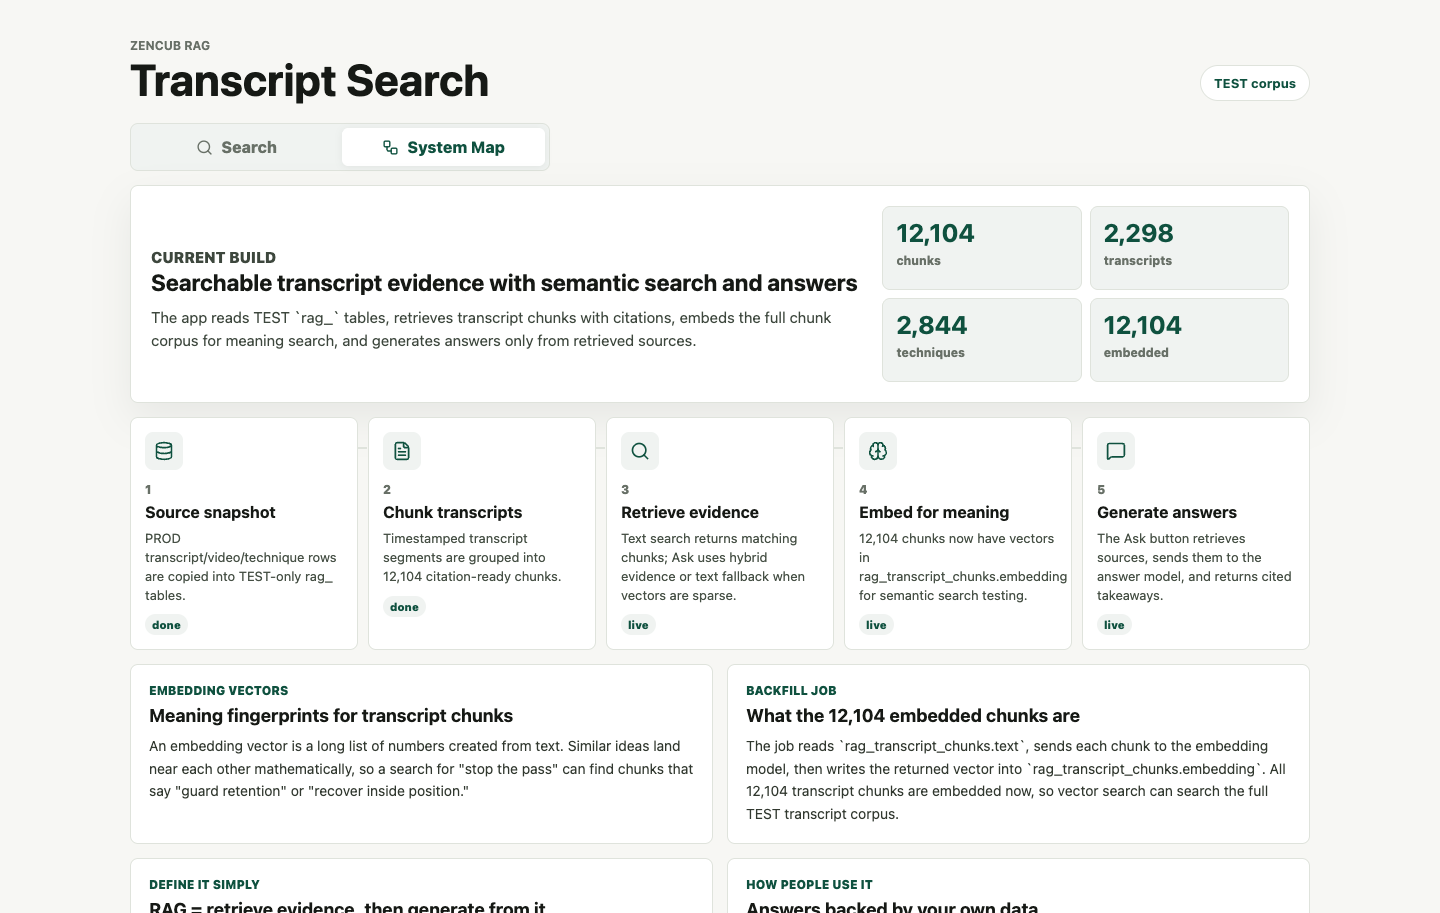
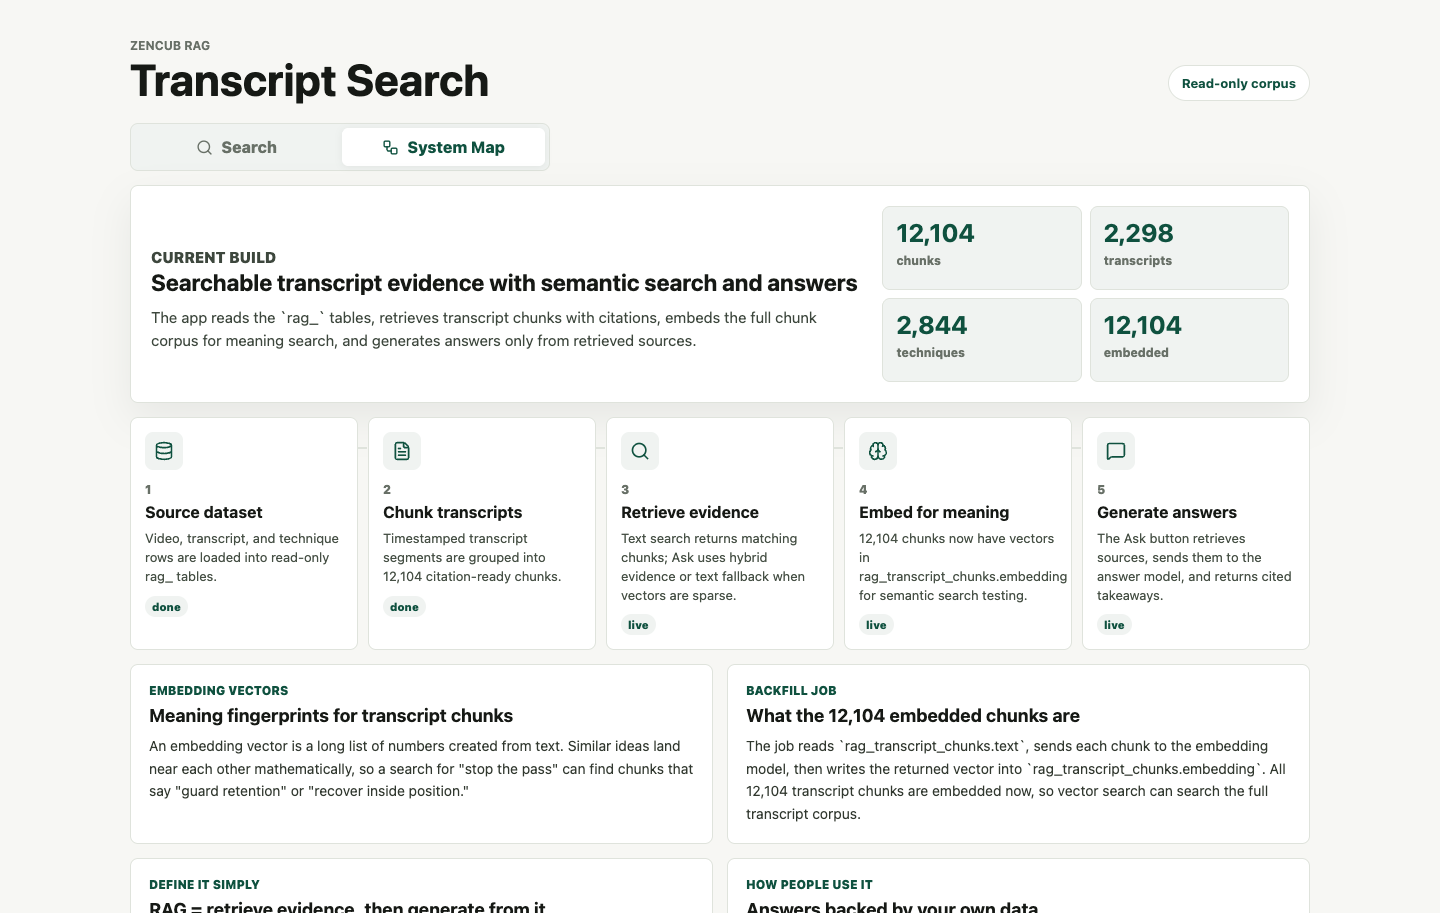
Generalize framing for public release; add social-preview image
- Remove internal/PROD/other-repo framing across docs, UI, and migration
  (reframe as a standalone RAG app over a BJJ transcript dataset)
- Drop the project ref that had leaked into the migration header
- UI: "TEST corpus" -> "Read-only corpus"; "Source snapshot / PROD" ->
  "Source dataset"; genericize System Map and overview copy
- Re-capture Search + System Map screenshots to match generalized UI
- Add docs/media/social-preview.png (1280x640) for GitHub social preview

diff --git a/src/components/SearchClient.tsx b/src/components/SearchClient.tsx
@@ -27,8 +27,8 @@ type Tab = "search" | "map";
 const pipeline = [
   {
     icon: Database,
-    title: "Source snapshot",
-    detail: "PROD transcript/video/technique rows are copied into TEST-only rag_ tables.",
+    title: "Source dataset",
+    detail: "Video, transcript, and technique rows are loaded into read-only rag_ tables.",
     status: "done",
   },
   {
@@ -406,7 +406,7 @@ export function SearchClient() {
               <p className="section-kicker">Current build</p>
               <h2>Searchable transcript evidence with semantic search and answers</h2>
               <p>
-                The app reads TEST `rag_` tables, retrieves transcript chunks with citations, embeds the full chunk corpus for meaning search, and generates answers only from retrieved sources.
+                The app reads the `rag_` tables, retrieves transcript chunks with citations, embeds the full chunk corpus for meaning search, and generates answers only from retrieved sources.
               </p>
             </div>
             <div className="metric-grid" aria-label="Corpus summary">
@@ -448,7 +448,7 @@ export function SearchClient() {
               <p className="section-kicker">Backfill job</p>
               <h3>What the 12,104 embedded chunks are</h3>
               <p className="plain-copy">
-                The job reads `rag_transcript_chunks.text`, sends each chunk to the embedding model, then writes the returned vector into `rag_transcript_chunks.embedding`. All 12,104 transcript chunks are embedded now, so vector search can search the full TEST transcript corpus.
+                The job reads `rag_transcript_chunks.text`, sends each chunk to the embedding model, then writes the returned vector into `rag_transcript_chunks.embedding`. All 12,104 transcript chunks are embedded now, so vector search can search the full transcript corpus.
               </p>
             </div>
           </section>
@@ -516,7 +516,7 @@ export function SearchClient() {
               <ol>
                 <li>The browser sends the query to `/api/rag/search`.</li>
                 <li>The API route uses the Supabase service role on the server.</li>
-                <li>Supabase runs `search_rag_transcript_chunks` against TEST chunks.</li>
+                <li>Supabase runs `search_rag_transcript_chunks` against the corpus chunks.</li>
                 <li>The UI renders snippets with title, timestamp, source URL, and rank.</li>
               </ol>
             </div>
@@ -555,8 +555,8 @@ export function SearchClient() {
 
           <section className="table-map">
             <div className="table-map-header">
-              <p className="section-kicker">TEST data map</p>
-              <h2>`rag_` tables copied from ZenCub PROD source data</h2>
+              <p className="section-kicker">Data map</p>
+              <h2>`rag_` tables holding the BJJ video-transcript dataset</h2>
             </div>
             <div className="table-rows">
               {dataTables.map(([name, count, purpose]) => (

diff --git a/src/app/layout.tsx b/src/app/layout.tsx
@@ -4,7 +4,7 @@ import "./globals.css";
 
 export const metadata: Metadata = {
   title: "ZenCub RAG",
-  description: "Internal transcript retrieval app for ZenCub RAG experiments.",
+  description: "A RAG app for searching BJJ video transcripts and generating cited answers.",
 };
 
 export default function RootLayout({ children }: { children: ReactNode }) {

diff --git a/src/app/page.tsx b/src/app/page.tsx
@@ -8,7 +8,7 @@ export default function Home() {
           <p className="eyebrow">ZenCub RAG</p>
           <h1>Transcript Search</h1>
         </div>
-        <div className="status-pill">TEST corpus</div>
+        <div className="status-pill">Read-only corpus</div>
       </header>
 
       <SearchClient />

diff --git a/src/lib/ragRetrieval.ts b/src/lib/ragRetrieval.ts
@@ -3,7 +3,7 @@ import { createServerSupabase } from "@/lib/supabase";
 import type { RagSearchResult } from "@/lib/types";
 
 // Minimum chunk length to be worth retrieving. ~30 tokens ≈ 120 chars.
-// The TEST corpus has ~419 chunks under 20 tokens and ~802 under 50 that are
+// The corpus has ~419 chunks under 20 tokens and ~802 under 50 that are
 // mostly transcription fragments; filtering them at read time keeps them out of
 // results without a destructive delete.
 export const MIN_CHUNK_CHARS = 120;

diff --git a/README.md b/README.md
@@ -2,7 +2,7 @@
 
 A Retrieval-Augmented Generation app that turns a BJJ (Brazilian Jiu-Jitsu) video-transcript library into a searchable, citation-backed research assistant. It runs hybrid retrieval (keyword + semantic), fuses the results, reranks them by intent, and generates answers grounded only in the retrieved source clips — every claim links back to a video and timestamp.
 
-It reads a read-only Supabase snapshot of transcript data and never writes to source application tables. All database access is server-side; secrets never reach the browser.
+It reads a read-only Supabase dataset of transcript data and never writes back to the source tables. All database access is server-side; secrets never reach the browser.
 
 ## Screenshots
 
@@ -58,7 +58,7 @@ retrieve relevant source evidence -> add it to the prompt -> generate an answer 
 One-sentence explanation:
 
 ```text
-ZenCub RAG is a BJJ transcript research system that searches ZenCub's video knowledge base and answers questions using cited clips instead of generic model memory.
+ZenCub RAG is a BJJ transcript research system that searches a BJJ video knowledge base and answers questions using cited clips instead of generic model memory.
 ```
 
 The app has three working layers right now:
@@ -67,7 +67,7 @@ The app has three working layers right now:
 Browser UI
   -> /api/rag/search
     -> Supabase RPC: search_rag_transcript_chunks
-      -> TEST table: rag_transcript_chunks
+      -> table: rag_transcript_chunks
         -> cited transcript results
 ```
 
@@ -93,9 +93,9 @@ User question
 
 The important separation:
 
-- `rag_` source tables hold the copied ZenCub TEST corpus.
+- `rag_` source tables hold the BJJ video-transcript corpus.
 - `rag_transcript_chunks` holds searchable evidence chunks with timestamps.
-- `embedding` holds vector representations; 12,104 chunks are embedded; the TEST transcript corpus has full vector coverage.
+- `embedding` holds vector representations; 12,104 chunks are embedded; the transcript corpus has full vector coverage.
 - API routes own all database access so secrets stay server-side.
 - `/api/rag/analyze` reruns the current search, sends the top chunks to a small/fast model, and returns a structured watch plan.
 - `/api/rag/vector-search` embeds the query and calls `match_rag_transcript_chunks`.
@@ -103,7 +103,7 @@ The important separation:
 
 ## Data Source
 
-TEST Supabase project: `YOUR_PROJECT_REF` (set via `NEXT_PUBLIC_SUPABASE_URL`)
+Supabase project: `YOUR_PROJECT_REF` (set via `NEXT_PUBLIC_SUPABASE_URL`)
 
 Tables used:
 
@@ -114,7 +114,7 @@ Tables used:
 - `rag_creators`
 - `rag_transcript_chunks`
 
-Current TEST snapshot:
+Current dataset:
 
 - `2,402` videos
 - `2,298` transcripts

diff --git a/docs/ARCHITECTURE.md b/docs/ARCHITECTURE.md
@@ -1,13 +1,13 @@
 # Architecture
 
-`zencub-rag` is a separate app that treats ZenCub TEST Supabase `rag_` tables as its retrieval corpus.
+`zencub-rag` is a standalone RAG app that treats a Supabase `rag_` table set of BJJ video-transcript data as its retrieval corpus.
 
 ## Boundaries
 
-- This repo owns RAG UI, RAG API routes, embedding jobs, and answer generation.
-- Main ZenCub remains the source system for import/extraction/product workflows.
+- This repo owns the RAG UI, RAG API routes, embedding jobs, and answer generation.
+- Transcript ingestion, transcription, and technique extraction happen in an upstream pipeline, outside this repo.
 - The RAG app should not write to non-`rag_` tables.
-- PROD data should only enter this app through deliberate snapshot/sync jobs.
+- Source data enters through deliberate sync jobs, never live writes.
 
 ## Retrieval Flow
 
@@ -53,7 +53,7 @@ Semantic Search button
           -> meaning-ranked results
 ```
 
-All 12,104 transcript chunks are embedded in TEST for end-to-end validation.
+All 12,104 transcript chunks are embedded for end-to-end validation.
 
 Ask flow:
 

diff --git a/docs/RAG_TECHNOLOGY.md b/docs/RAG_TECHNOLOGY.md
@@ -11,7 +11,7 @@ retrieve evidence -> augment the prompt -> generate a grounded answer
 How to explain this app:
 
 ```text
-ZenCub RAG turns ZenCub's BJJ transcript library into a searchable research assistant. It finds source clips, uses transcript chunks as evidence, and generates cited answers instead of relying on generic model memory.
+ZenCub RAG turns a BJJ video-transcript library into a searchable research assistant. It finds source clips, uses transcript chunks as evidence, and generates cited answers instead of relying on generic model memory.
 ```
 
 ## What People Use RAG For
@@ -79,7 +79,7 @@ User question
           -> cited answer
 ```
 
-This target is implemented as a first pass. TEST currently has full vector coverage: 12,104 embedded chunks out of 12,104 total chunks.
+This target is implemented as a first pass. The corpus currently has full vector coverage: 12,104 embedded chunks out of 12,104 total chunks.
 
 ## Why Chunks Exist
 
@@ -101,7 +101,7 @@ Query: how do I stop someone turning into me after a pass?
 
 Text search may miss good clips if the transcript says "crossface", "underhook", or "pin the shoulders" instead. Embeddings make those conceptually related chunks retrievable.
 
-The backfill process reads `rag_transcript_chunks.text`, sends each chunk to the embedding model, then writes the returned vector into `rag_transcript_chunks.embedding` with `embedded_at` and `embedding_model`. TEST currently has 12,104 embedded chunks and 0 chunks missing vectors.
+The backfill process reads `rag_transcript_chunks.text`, sends each chunk to the embedding model, then writes the returned vector into `rag_transcript_chunks.embedding` with `embedded_at` and `embedding_model`. The corpus currently has 12,104 embedded chunks and 0 chunks missing vectors.
 
 ## Good Queries To Test
 
@@ -142,11 +142,11 @@ That lets you inspect whether the answer is grounded in the right BJJ evidence.
 
 Current:
 
-- TEST `rag_` snapshot tables
+- `rag_` corpus tables
 - `12,104` transcript chunks
 - text-search endpoint
 - Analyze Results endpoint for grounded watch-plan summaries
-- embedding script with TEST-project guard
+- embedding script with a project-ref safety guard
 - `12,104` embedded chunks for semantic-search validation
 - vector search endpoint
 - Ask endpoint for generated cited answers

diff --git a/log.md b/log.md
@@ -12,9 +12,9 @@ Implemented the retrieval upgrades in app code (`src/lib/ragRetrieval.ts`):
 - LLM reranker (`rerankWithLLM`, uses `RAG_RERANK_MODEL`, default `gpt-4o-mini`, toggle `RAG_RERANK=off`) reorders the diverse candidate pool by intent before generation, falling back to input order on any error. Directly targets the documented semantic-drift-on-defensive-queries weakness.
 - Technique enrichment (`enrichWithTechniques`) joins each retrieved chunk's timespan to the overlapping `rag_techniques` row and passes technique/position/difficulty/gi_nogi into the answer prompt and `formatRagSource`. Previously `rag_techniques` (2,844 rows) was unused by retrieval.
 
-Added `docs/migrations/2026-07-07-hybrid-rrf-index-cleanup.sql` for the pieces this app cannot run over PostgREST (no DDL/DML-of-that-kind access): the HNSW `vector_cosine_ops` index (a no-op at 12k rows, needed before PROD scale), a GIN FTS index, an optional server-side `hybrid_search_rag_chunks` RRF function to push fusion into Postgres later, and an optional hard-delete of sub-30-token chunks. These run in the Supabase SQL editor.
+Added `docs/migrations/2026-07-07-hybrid-rrf-index-cleanup.sql` for the pieces this app cannot run over PostgREST (no DDL/DML-of-that-kind access): the HNSW `vector_cosine_ops` index (a no-op at 12k rows, needed before production scale), a GIN FTS index, an optional server-side `hybrid_search_rag_chunks` RRF function to push fusion into Postgres later, and an optional hard-delete of sub-30-token chunks. These run in the Supabase SQL editor.
 
-Deferred small-to-big chunking: it requires re-chunking/re-ingestion owned by the main ZenCub import pipeline, not this read-only app.
+Deferred small-to-big chunking: it requires re-chunking/re-ingestion owned by the upstream ingestion pipeline, not this read-only app.
 
 Verification (against the running dev server, hot-reloaded): `npm run typecheck` clean; `npm run eval:queries` 19/19 (regenerated `docs/evals/rag-search-eval.md`); `search` for `heel hook` now caps at 2 per video and pulls in a third source with min text length 907; `ask` for `how do I stop someone from passing my guard` returned `hybrid` + `reranked` with guard-pass-prevention citations (Firas Zahabi, Danaher), and `defend leg locks safely` — the documented drift case — now returns a defense-oriented cited answer instead of attack clips.
 